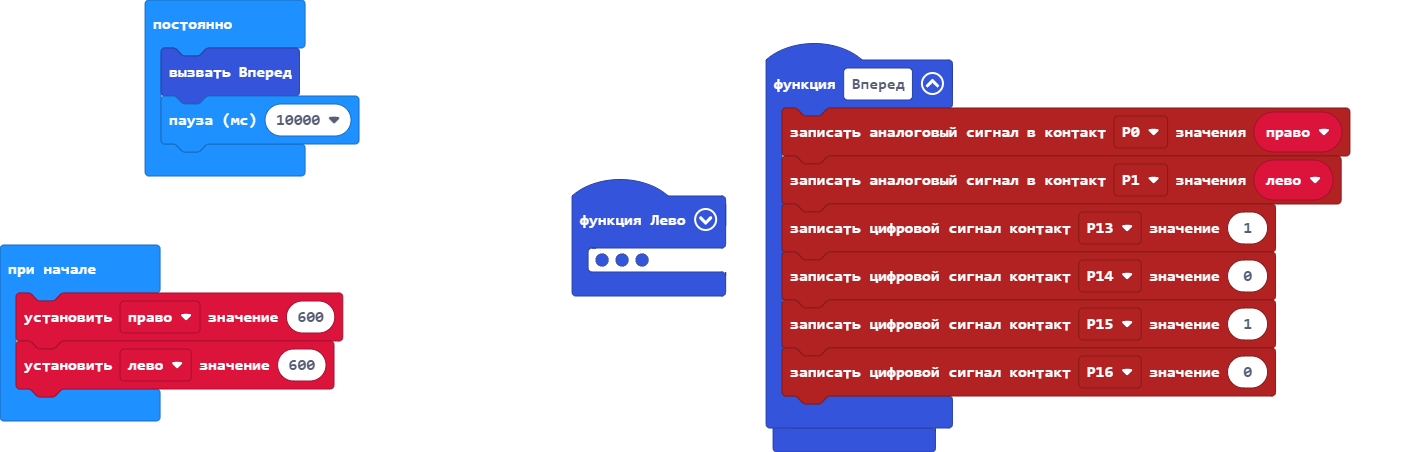
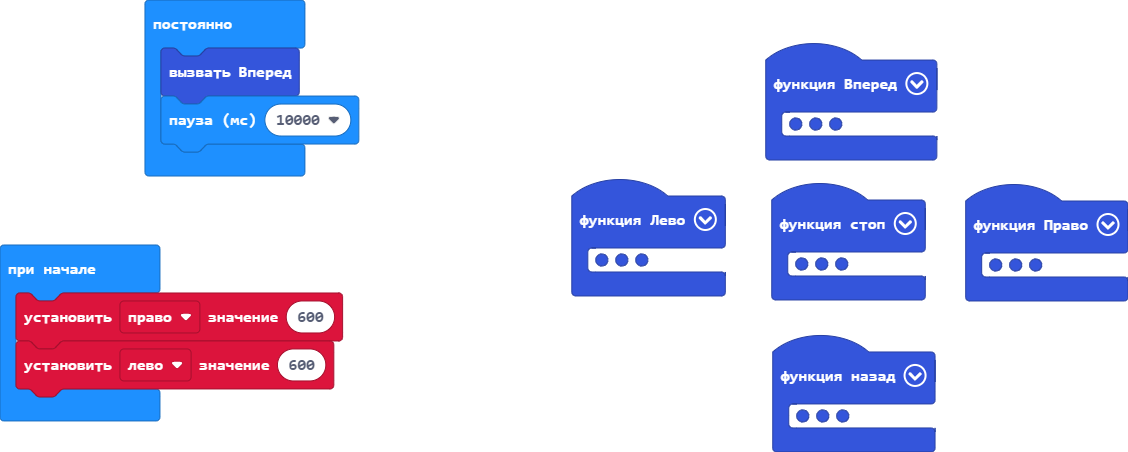
Обновить main.blocks, main.ts

diff --git a/main.ts b/main.ts
@@ -1,9 +1,9 @@
 function стоп () {
     pins.analogWritePin(AnalogPin.P0, 0)
-    pins.digitalWritePin(DigitalPin.P13, 0)
-    pins.digitalWritePin(DigitalPin.P14, 0)
-    pins.digitalWritePin(DigitalPin.P15, 0)
-    pins.digitalWritePin(DigitalPin.P16, 0)
+    pins.digitalWritePin(DigitalPin.P13, 1)
+    pins.digitalWritePin(DigitalPin.P14, 1)
+    pins.digitalWritePin(DigitalPin.P15, 1)
+    pins.digitalWritePin(DigitalPin.P16, 1)
     pins.analogWritePin(AnalogPin.P1, 0)
 }
 function Вперед () {
